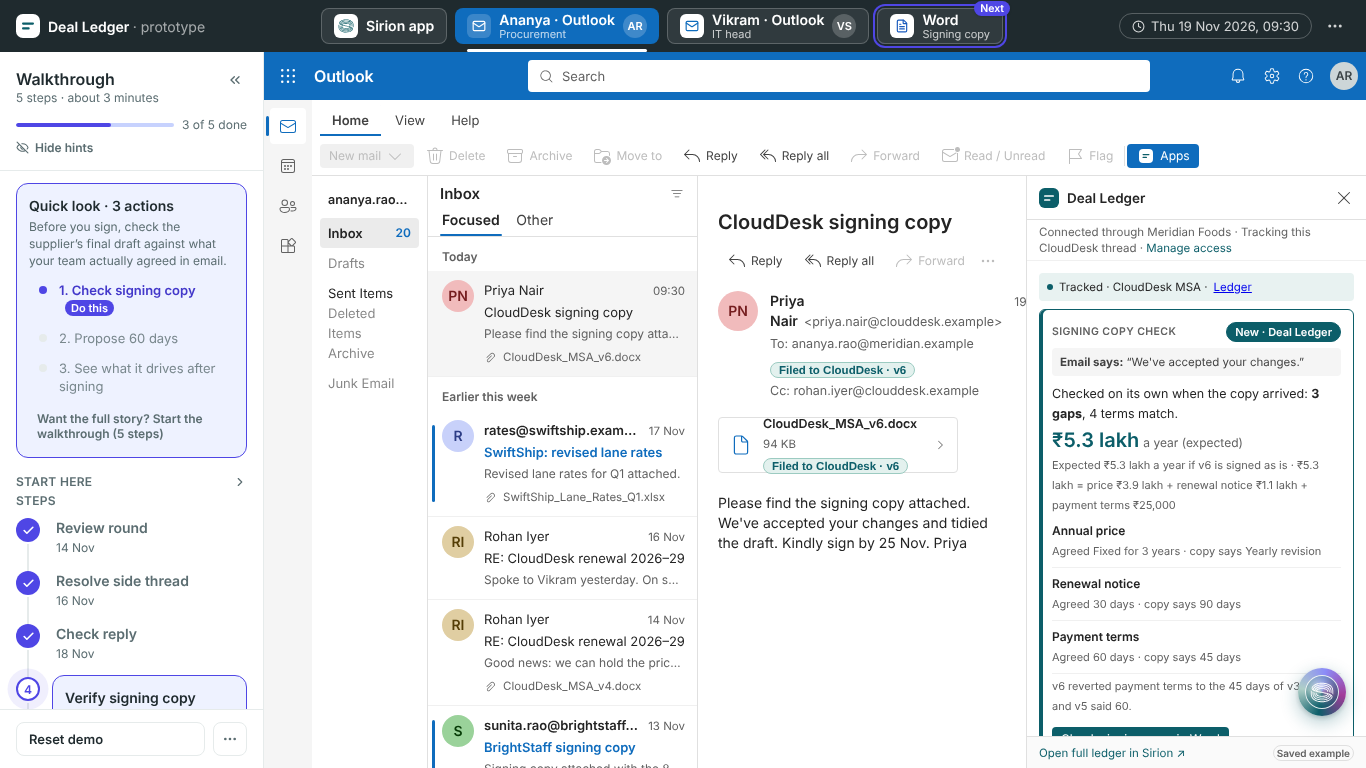
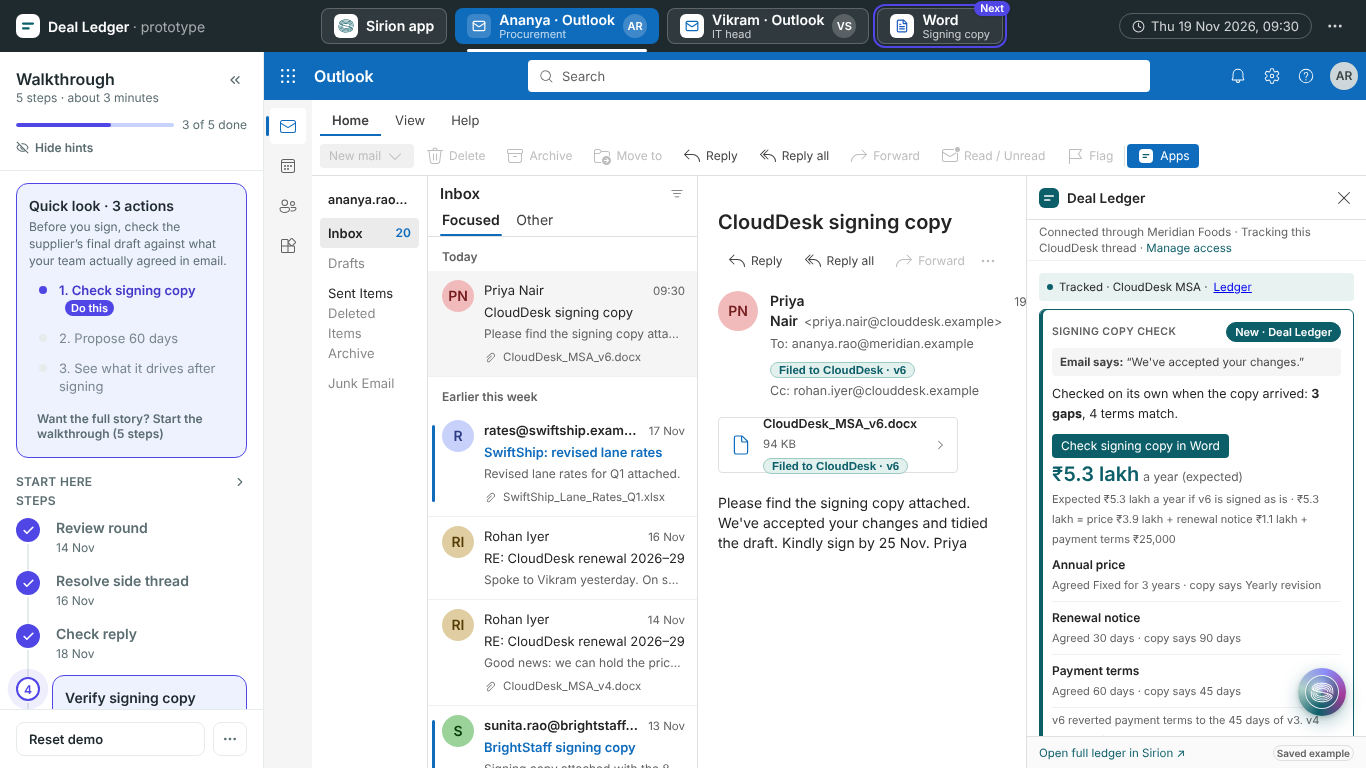
Review fixes, phase D: case content; final screen fixes
- /story: opening line, positioning, who we'd start with (CloudDesk fits;
  BrightStaff tests schedules; SwiftShip is an expansion case),
  differentiation metric, pilot design, guardrails and rethink triggers,
  the pilot path under How it connects, and What changed after review
- /today: an existing-vs-proposed table, descriptive only
- Story copy no longer says Sirion files attachments on its own
- Launcher steps aside from key task buttons (data-ask-avoid), not only
  coach-mark targets; the signing-copy action sits above the gap list
- Hold badges sit under the term instead of squeezing it
- Screenshots: docs/screens/review-fixes at 1440x900 and 1366x768

Claude-Session: https://claude.ai/code/session_01TFLZc3kXuMhpPCiCoPvkW9

Changed region(s): [[0.7687, 0.5625, 0.9531, 0.9688]]

diff --git a/app/(sirion)/today/page.tsx b/app/(sirion)/today/page.tsx
@@ -28,6 +28,29 @@ const NEW = [
   { title: 'Handover with sources', body: 'Obligations and invoice rules each link back to the email line they came from.', step: 5 },
 ];
 
+/** Review fix D3: descriptive only, no claims about how Sirion works internally. */
+const EXISTING = [
+  'Word add-in redlining',
+  'Playbook review',
+  'Version comparison',
+  'Detecting untracked counterparty edits',
+  'Outlook: send for review or approval',
+  'Calendar and contract-linked reminders',
+  'Invoice-to-contract matching',
+];
+
+const PROPOSED = [
+  'Email evidence for each term',
+  'Conditional agreements',
+  'Filing on arrival',
+  'Side-thread linking',
+  'Send-time concession check',
+  'Signing copy against agreed terms',
+  'Signed copy against the reviewed version',
+  'Traceability from an invoice line to the signed clause to the negotiation evidence',
+  'Personal Outlook reminder',
+];
+
 const WORD_TODAY = [
   { title: 'Content Library', body: 'Insert approved clauses.' },
   { title: 'Review', body: 'Track changes, compare versions and flag risk with AI.' },
@@ -153,6 +176,34 @@ export default function TodayPage() {
           <FeatureList items={WORD_NEW} tone="new" />
         </section>
       </div>
+
+      <h2 className="mb-3 mt-8 text-[17px] font-semibold text-ink">Existing and proposed, side by side</h2>
+      <section className="overflow-hidden rounded-xl border border-line bg-white shadow-card">
+        <div className="grid md:grid-cols-2">
+          <div className="border-b border-line p-5 md:border-b-0 md:border-r">
+            <div className="mb-3 flex items-center justify-between gap-3">
+              <h3 className="text-[15px] font-semibold text-ink">Sirion today</h3>
+              <Tag kind="today" />
+            </div>
+            <ul className="space-y-2 text-[14px] leading-[20px] text-ink">
+              {EXISTING.map((x) => (
+                <li key={x} className="flex gap-2"><Check size={15} className="mt-[2px] shrink-0 text-muted" />{x}</li>
+              ))}
+            </ul>
+          </div>
+          <div className="p-5">
+            <div className="mb-3 flex items-center justify-between gap-3">
+              <h3 className="text-[15px] font-semibold text-teal-900">Proposed by Deal Ledger</h3>
+              <Tag kind="new" />
+            </div>
+            <ul className="space-y-2 text-[14px] leading-[20px] text-ink">
+              {PROPOSED.map((x) => (
+                <li key={x} className="flex gap-2"><Plus size={15} className="mt-[2px] shrink-0 text-teal-900" />{x}</li>
+              ))}
+            </ul>
+          </div>
+        </div>
+      </section>
 
       <h2 className="mb-3 mt-8 text-[17px] font-semibold text-ink">AskSirion and Deal Ledger</h2>
       <div className="grid gap-5 lg:grid-cols-2">

diff --git a/components/ask/AskLauncher.tsx b/components/ask/AskLauncher.tsx
@@ -78,14 +78,20 @@ export function AskLauncher() {
   useEffect(() => {
     const check = () => {
       setModal(Boolean(document.querySelector('[aria-modal="true"]:not([data-asksirion]), [role="alertdialog"]')));
-      const target = document.querySelector('.tour-target');
+      // Coach-mark targets and key task buttons (data-ask-avoid): never under the launcher.
+      const targets = [...document.querySelectorAll('.tour-target, [data-ask-avoid]')];
       const frameEl = document.getElementById('app-frame');
-      if (!target || !frameEl) return setLift(0);
-      const t = target.getBoundingClientRect();
+      if (!targets.length || !frameEl) return setLift(0);
       const f = frameEl.getBoundingClientRect();
       const box = { left: f.right - right - size - 8, right: f.right - right + 8, top: f.bottom - bottomBase - size - 8, bottom: f.bottom - bottomBase + 8 };
-      const overlaps = t.right > box.left && t.left < box.right && t.bottom > box.top && t.top < box.bottom;
-      setLift(overlaps ? Math.round(box.bottom - t.top + 16) : 0);
+      let lift = 0;
+      for (const el of targets) {
+        const t = el.getBoundingClientRect();
+        if (!t.width || !t.height) continue;
+        const overlaps = t.right > box.left && t.left < box.right && t.bottom > box.top && t.top < box.bottom;
+        if (overlaps) lift = Math.max(lift, Math.round(box.bottom - t.top + 16));
+      }
+      setLift(lift);
     };
     check();
     const id = window.setInterval(check, 300);

diff --git a/components/addin/AnanyaPane.tsx b/components/addin/AnanyaPane.tsx
@@ -576,6 +576,11 @@ function SigningCopyCard({ rows }: { rows: LedgerRow[] }) {
             Checked on its own when the copy arrived: <strong>{gaps.length} gap{gaps.length === 1 ? '' : 's'}</strong>,{' '}
             {result.matches.length} terms match.
           </div>
+          <div className={s.actions}>
+            <Link href="/word/v6?from=sirion&clause=9.3" data-tour="quick-check" data-ask-avoid onClick={() => useDemo.getState().syncVersion('v6')}>
+              <Button size="small" appearance="primary">Check signing copy in Word</Button>
+            </Link>
+          </div>
           <div style={{ marginTop: 6 }}>
             <span className={s.money}>{formatLakh(copyReconciliation(gaps, cloudDeskDeal).totalLakh)}</span>{' '}
             <span className={s.moneySuffix}>a year (expected)</span>
@@ -594,11 +599,7 @@ function SigningCopyCard({ rows }: { rows: LedgerRow[] }) {
           {gaps.some((g) => g.termKey === 'payment') && (
             <p className={s.grey}>v6 reverted payment terms to the 45 days of v3. v4 and v5 said 60.</p>
           )}
-          <div className={s.actions}>
-            <Link href="/word/v6?from=sirion&clause=9.3" data-tour="quick-check" onClick={() => useDemo.getState().syncVersion('v6')}>
-              <Button size="small" appearance="primary">Check signing copy in Word</Button>
-            </Link>
-          </div>
+
         </>
       ) : (
         <div style={{ display: 'flex', alignItems: 'center', gap: 8 }}>

diff --git a/components/addin/LedgerList.tsx b/components/addin/LedgerList.tsx
@@ -42,6 +42,13 @@ export function LedgerList({ rows, compact = false }: { rows: LedgerRow[]; compa
             <span className={s.listName}>
               <span style={{ display: 'block', fontWeight: 600 }}>{r.label}</span>
               <span className={s.listValue}>{plainValue(r.position)}</span>
+              {holds[r.termKey] && (
+                <span style={{ display: 'block', marginTop: 2 }}>
+                  <Badge appearance="outline" color={holds[r.termKey] === 'conceded_pending' ? 'danger' : 'warning'} size="small">
+                    {HOLD_LABEL[holds[r.termKey]!]}
+                  </Badge>
+                </span>
+              )}
             </span>
             <span style={{ display: 'flex', alignItems: 'center', gap: 6, flexShrink: 0 }}>
               {compact ? <span className={s.listValue}>{r.owner === 'legal' ? 'Legal' : personName(cloudDeskDeal.ownerId)}</span> : risk ? (
@@ -50,11 +57,6 @@ export function LedgerList({ rows, compact = false }: { rows: LedgerRow[]; compa
                 </span>
               ) : null}
               <StateBadge state={r.state} conditional={Boolean(r.condition)} />
-              {holds[r.termKey] && (
-                <Badge appearance="outline" color={holds[r.termKey] === 'conceded_pending' ? 'danger' : 'warning'} size="small">
-                  {HOLD_LABEL[holds[r.termKey]!]}
-                </Badge>
-              )}
             </span>
           </div>
         );

diff --git a/components/story/ConnectionFlow.tsx b/components/story/ConnectionFlow.tsx
@@ -90,6 +90,11 @@ export function ConnectionFlow() {
           <strong>Gmail and Google Workspace</strong> follow the same flow with a Workspace add-on and the Gmail API; out of scope for this demo.
         </li>
       </ul>
+      <p className="mt-3 text-[13px] font-semibold text-ink">The pilot path</p>
+      <ul className="mt-1 list-disc space-y-1 pl-5 text-[13px] leading-[19px] text-ink">
+        <li>First release: the deal owner selects a thread explicitly, or the team copies a shared capture mailbox (deals@).</li>
+        <li>Later: background discovery across mailboxes, once the customer&apos;s admin configures access.</li>
+      </ul>
       <p className="mt-3 text-[12px]">
         <Link href="/setup" className="font-medium text-teal-900 underline">See how this was set up</Link> ·{' '}
         <Link href="/outlook/ananya?msg=M1&prequel=1" className="font-medium text-teal-900 underline">The first prompt, 1 Nov</Link>

diff --git a/components/addin/WordReview.tsx b/components/addin/WordReview.tsx
@@ -110,7 +110,7 @@ function ConditionBlock({ issue, row, version, actions }: { issue: ReviewIssue; 
       {l.costLakhPerYr !== null && <div style={{ marginTop: 2 }}>Expected {formatLakh(l.costLakhPerYr)} a year</div>}
       <div style={{ display: 'flex', gap: 8, alignItems: 'center', marginTop: 8, flexWrap: 'wrap' }}>
         {check.state === 'met' ? (
-          <Button size="small" appearance="primary" data-tour="propose-agreed" disabled={inserted || actions.locked} onClick={() => actions.onInsertAgreed(issue)}>
+          <Button size="small" appearance="primary" data-tour="propose-agreed" data-ask-avoid disabled={inserted || actions.locked} onClick={() => actions.onInsertAgreed(issue)}>
             {inserted ? `Proposed ${agreed} in Word` : `Propose ${agreed} in Word`}
           </Button>
         ) : (

diff --git a/content/story.md b/content/story.md
@@ -1,10 +1,16 @@
 # About this case
 
+**Before you sign, check the supplier’s final draft against what your team actually agreed in email.**
+
 Can Ananya sign CloudDesk’s renewal knowing it still contains the terms she agreed?
 
 ## 1. Why negotiation
 
 Price, payment, renewal notice and service credits are settled before a contract is signed. Once a term is missing from the signed copy, reminders and invoice checks can only enforce what the document says. A Sirion product lead we spoke to described negotiations moving between email and Word. Sirion describes the same workflow in its article on contract negotiation. [Sirion’s article on Word and email negotiations](https://www.sirion.ai/library/contract-insights/contract-negotiation-software-vs-email/)
+
+“AI reviews your contract in Word” is crowded. “Show me where we agreed this, whether it was conditional, and whether the exact file I’m about to sign keeps it” is the gap we’re going for. The hero example: the signing copy’s §9.3 says payment in 45 days, which company policy allows, while Rohan agreed 60 days on condition of a three-year term, and §3.1 gives three years.
+
+**Who we’d start with.** Procurement-led renewals where the supplier sends Word drafts by email, at least one business stakeholder negotiates outside the main thread, and the company can reach the previous contract and invoice history. CloudDesk fits all of these. BrightStaff tests whether the idea works in rate tables and schedules. SwiftShip (a new deal, PDF quote) is an expansion case.
 
 ## 2. The problem
 
@@ -30,13 +36,31 @@ WorldCC research estimates that businesses lose almost 9% of value through poor 
 4. **Verify the signing copy.** The check runs when the clean copy arrives. Each gap offers the agreed wording, the playbook fallback or the walk-away, each priced.
 5. **See the handover.** One screen turns signed terms into obligations and invoice checks. The December invoice is ₹32,000 above the signed price.
 
-Two more suppliers show other patterns: BrightStaff (a rate card table that disagrees with the email, then a timesheet invoice that overbills) and SwiftShip (a new deal started from an email, with the terms read from a PDF quote).
+Two more suppliers show other patterns: BrightStaff (clause 6 and the Schedule 2 rate card disagree inside the signing copy; after signing, the invoice follows the schedule and goes to the contract owner) and SwiftShip (an expansion case: a new deal started from an email, with the terms read from a PDF quote).
 
 ## 5. Success measures
 
 **North star:** The share of audited signed contracts with every agreed term reflected in the signed copy. Reviewers compare a sample with the original correspondence and report authorised waivers separately.
 
-Also track days from the final supplier email to signature and the share of rated warnings reviewers found useful. Revisit the workflow if signing takes longer, too many rows need human confirmation, or warnings rarely help people make a decision.
+**How we’ll know it works.**
+
+- **Differentiation metric:** of the material discrepancies reviewers confirmed, the share that passed the playbook but contradicted a deal-specific agreement.
+- **Pilot design:** replay the same historical deals through ordinary Sirion review and through review with Deal Ledger, then compare catches.
+- **Guardrails, tracked alongside catches:** false “agreed” labels (a term shown as agreed that wasn’t); extra reviewer minutes per deal; ambiguous items left unresolved at signature.
+- Also: days from the final supplier email to signature, and the share of rated warnings reviewers found useful.
+
+**What would make us rethink.**
+
+- Most confirmed catches turn out to be ones the playbook already finds.
+- False agreement labels go above a threshold the team sets (we assume 2% of terms).
+- Reviewer time goes up without more catches.
+- Signing takes longer, or too many rows need human confirmation.
+
+**What changed after review.**
+
+- **Honest labels.** Every ₹ headline names its version, scope and as-of time, with a reconciliation line; negotiation status and draft match are shown separately; proposed automation is tagged new; no claim that credits are owed before a signed SLA is checked; the reply with v5 says what is still open.
+- **The conditional-agreement hero.** §9.3 passes company policy but not what Rohan agreed (60 days if the term is three years); the check reads the condition against §3.1 in the same file, and Propose 60 days writes a visible tracked change.
+- **After-signature traceability.** The handover shows owner, date and signed clause for each line, checks the signed copy against the reviewed one, computes renewal dates with a weekend rule and a send-by date for Legal, and routes BrightStaff's internal conflict to the contract owner rather than disputing it.
 
 <!-- technical-appendix -->
 
@@ -52,7 +76,7 @@ The reader proposes terms with exact quotations. Deal Ledger checks those quotat
 
 **Privacy.** Only connected mailboxes are read, and only threads on a live deal's supplier domain. Internal-only email is never read or checked. Email bodies are not stored; only the quoted line is kept. Business owners see agreed terms and the ₹ figure in a warning, not the cost workings.
 
-**What is Sirion today and what is new.** Each block in the Outlook pane is marked. Sirion's plugin already matches the deal, files the attachment as the next version, shows an IssueDetection playbook summary, sends for review or approval and opens the draft in Word; its Word add-in shows Redline Agent suggestions with preferred, fallback and walk-away positions. Deal Ledger adds the email side: what was agreed in the text, the side threads, the check at Send, a ₹ figure on every gap and a recommended move with its leverage.
+**What is Sirion today and what is new.** Each block in the Outlook pane is marked. Sirion's plugin already matches the contract, lets users sync the attachment as the next version, shows an IssueDetection playbook summary, sends for review or approval and opens the draft in Word; its Word add-in shows Redline Agent suggestions with preferred, fallback and walk-away positions. Deal Ledger adds the email side: what was agreed in the text, the side threads, the check at Send, a ₹ figure on every gap and a recommended move with its leverage.
 
 **The check at Send warns, never blocks.** It runs for anyone at Meridian replying to a supplier with a live deal; internal-only email is never checked. It reads recipients, the body and attachment names, and compares them with the ledger: a reply that reopens an agreed term, gives away an open one, settles a term still being confirmed, or attaches an older version gets one alert with the cost, the approval at risk and the sentence in the draft. The choices are Loop in procurement, Edit reply (a supplier-safe rewrite goes in place) or Send anyway with a one-tap reason, which marks the term reopened and tells procurement. A reply that matches the ledger sends with “Checked against ledger ✓”. In production this is an Outlook Smart Alerts add-in in the mode that lets the user send anyway; if the user is not signed in or the check takes longer than about three seconds, the email sends as usual. The demo's check is deterministic rules, no model.
 
